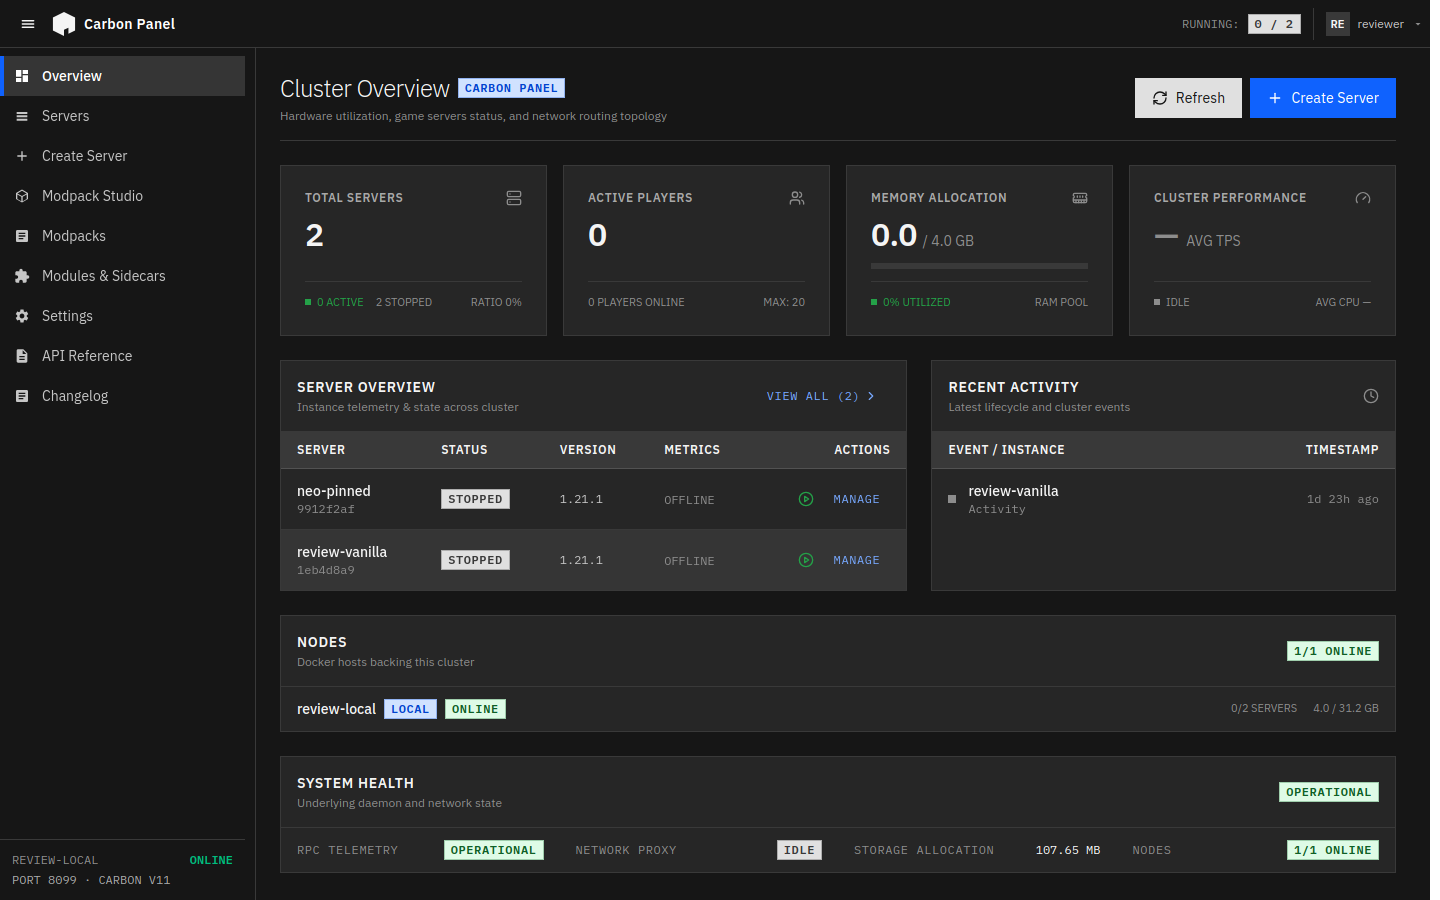
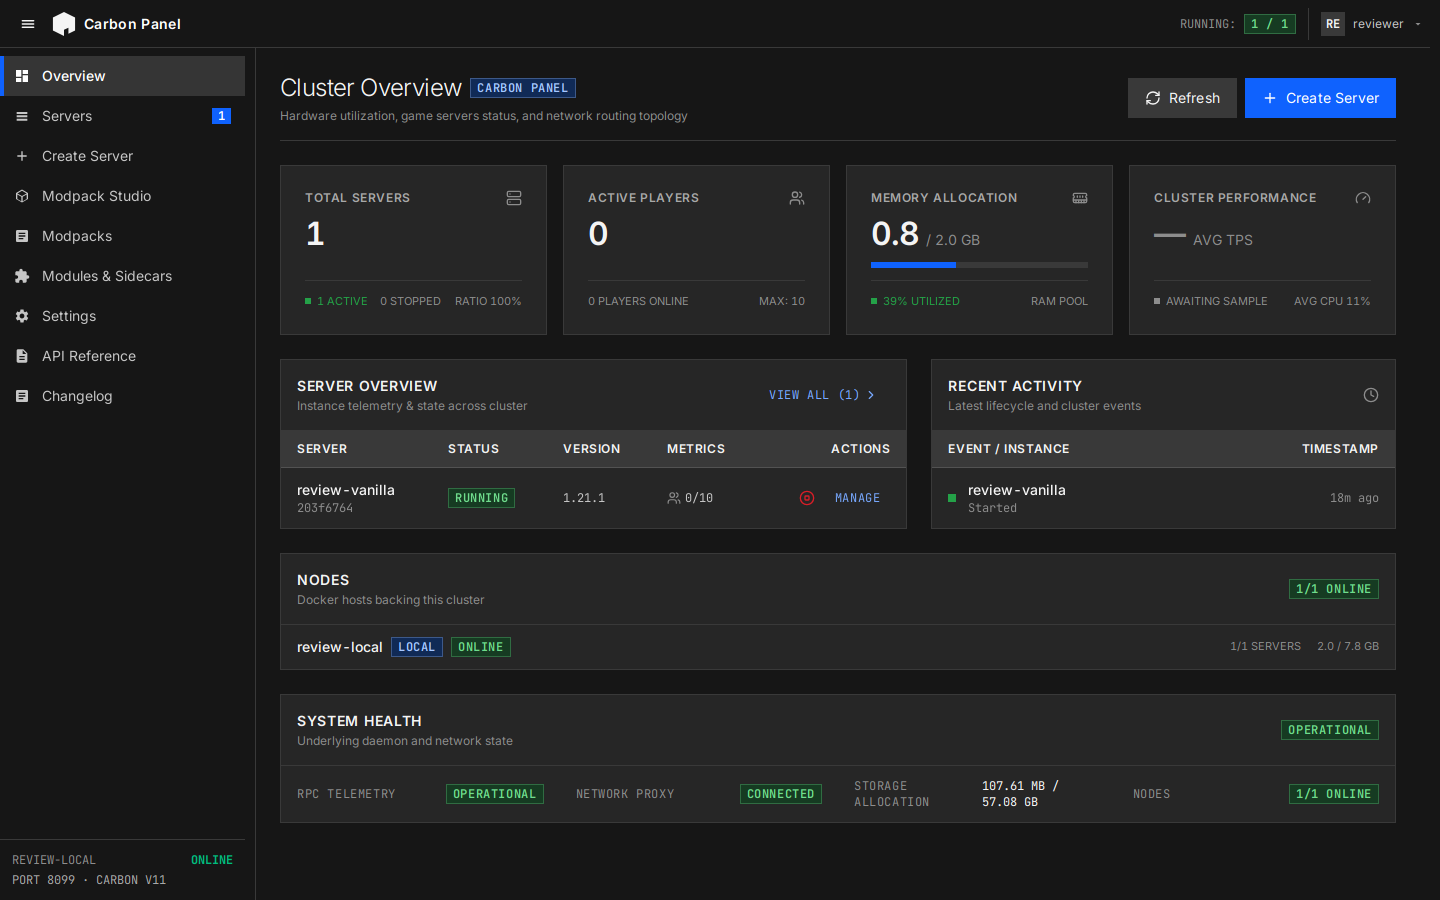
Turn the landing showcase into a product tour
Frame the four console captures as browser windows with route pills, benefit-led captions, and hover lift. Default :root to the dark palette so fresh browsers render dark controls (the white selects/cards), with a regression test. Seed the review stack with a running server and modded pack; capture uniform 1440x900 viewports. Regenerate the committed PNGs from the live stack.

diff --git a/landing/index.html b/landing/index.html
@@ -493,29 +493,53 @@
     <section class="showcase section" id="showcase" aria-labelledby="showcase-title">
       <div class="container">
         <div class="section-head reveal">
-          <p class="eyebrow">Interface preview</p>
+          <p class="eyebrow">Product tour</p>
           <h2 id="showcase-title">The panel, up close.</h2>
           <p>
-            Static captures from a disposable seeded stack. They regenerate
-            with the showcase journey whenever the console changes.
+            Real captures from a disposable demo stack, regenerated
+            automatically whenever the console changes.
           </p>
         </div>
         <div class="showcase-grid">
           <figure class="showcase-card reveal">
-            <img src="./assets/showcase/showcase-dashboard.png" alt="Cluster overview dashboard with server tiles, node inventory, and system health" loading="lazy" />
-            <figcaption><strong>Dashboard</strong><span>Cluster overview, nodes, and health</span></figcaption>
+            <div class="browser">
+              <div class="browser-bar" aria-hidden="true">
+                <span class="browser-dots"><i></i><i></i><i></i></span>
+                <span class="browser-url">panel/overview</span>
+              </div>
+              <img src="./assets/showcase/showcase-dashboard.png" alt="Cluster overview with KPI tiles, server list, and system health" loading="lazy" />
+            </div>
+            <figcaption><strong>Know your cluster at a glance</strong><span>Servers, players, memory, and TPS in one strip</span></figcaption>
           </figure>
           <figure class="showcase-card reveal">
-            <img src="./assets/showcase/showcase-server-detail.png" alt="Server detail view with tabs for overview, activity, and console" loading="lazy" />
-            <figcaption><strong>Server detail</strong><span>Telemetry, tabs, and lifecycle journal</span></figcaption>
+            <div class="browser">
+              <div class="browser-bar" aria-hidden="true">
+                <span class="browser-dots"><i></i><i></i><i></i></span>
+                <span class="browser-url">panel/servers/review-vanilla</span>
+              </div>
+              <img src="./assets/showcase/showcase-server-detail.png" alt="Server detail with live status heartbeat, network ingress, telemetry, and tabs" loading="lazy" />
+            </div>
+            <figcaption><strong>Catch problems before players do</strong><span>Live heartbeat, ingress, and health per server</span></figcaption>
           </figure>
           <figure class="showcase-card reveal">
-            <img src="./assets/showcase/showcase-studio.png" alt="Modpack Studio workspace for building and editing modpacks" loading="lazy" />
-            <figcaption><strong>Modpack Studio</strong><span>Visual workspace for custom packs</span></figcaption>
+            <div class="browser">
+              <div class="browser-bar" aria-hidden="true">
+                <span class="browser-dots"><i></i><i></i><i></i></span>
+                <span class="browser-url">panel/studio/showcase-pack</span>
+              </div>
+              <img src="./assets/showcase/showcase-studio.png" alt="Modpack Studio workspace with mod list, versions, and update status" loading="lazy" />
+            </div>
+            <figcaption><strong>Ship a pack without touching a manifest</strong><span>Mods, versions, and sides in one workspace</span></figcaption>
           </figure>
           <figure class="showcase-card reveal">
-            <img src="./assets/showcase/showcase-modpacks.png" alt="Modpacks library for browsing, importing, and managing packs" loading="lazy" />
-            <figcaption><strong>Modpacks</strong><span>Browse, import, and manage</span></figcaption>
+            <div class="browser">
+              <div class="browser-bar" aria-hidden="true">
+                <span class="browser-dots"><i></i><i></i><i></i></span>
+                <span class="browser-url">panel/modpacks</span>
+              </div>
+              <img src="./assets/showcase/showcase-modpacks.png" alt="Modpacks library with search filters, loader tags, and one-click server install" loading="lazy" />
+            </div>
+            <figcaption><strong>From discovery to running server in minutes</strong><span>Browse Modrinth and install straight into a server</span></figcaption>
           </figure>
         </div>
         <p class="showcase-note">Screenshots missing? Regenerate: boot <code>scripts/review/devstack.sh up</code>, run the showcase plan with <code>scripts/review/journey.mjs</code>, then copy <code>showcase-*.png</code> into <code>landing/assets/showcase/</code>.</p>

diff --git a/web/carbon-panel/src/lib/components/carbon/CarbonTile.svelte b/web/carbon-panel/src/lib/components/carbon/CarbonTile.svelte
@@ -14,6 +14,7 @@ file, You can obtain one at https://mozilla.org/MPL/2.0/.
 		class?: string;
 		onclick?: () => void;
 		children?: Snippet;
+		[key: string]: unknown;
 	}
 
 	let {
@@ -21,7 +22,8 @@ file, You can obtain one at https://mozilla.org/MPL/2.0/.
 		href = undefined,
 		class: className = '',
 		onclick,
-		children
+		children,
+		...restProps
 	}: Props = $props();
 
 	const baseClasses =
@@ -34,7 +36,7 @@ file, You can obtain one at https://mozilla.org/MPL/2.0/.
 
 {#if href}
 	<!-- eslint-disable-next-line svelte/no-navigation-without-resolve -- href is caller-provided; callers pass resolve()d paths -->
-	<a {href} class="{baseClasses} {hoverClasses} block {className}">
+	<a {href} {...restProps} class="{baseClasses} {hoverClasses} block {className}">
 		{@render children?.()}
 	</a>
 	<!-- eslint-enable svelte/no-navigation-without-resolve -->
@@ -44,12 +46,13 @@ file, You can obtain one at https://mozilla.org/MPL/2.0/.
 		tabindex="0"
 		{onclick}
 		onkeydown={(e) => (e.key === 'Enter' || e.key === ' ') && onclick?.()}
+		{...restProps}
 		class="{baseClasses} {hoverClasses} {className}"
 	>
 		{@render children?.()}
 	</div>
 {:else}
-	<div class="{baseClasses} {className}">
+	<div {...restProps} class="{baseClasses} {className}">
 		{@render children?.()}
 	</div>
 {/if}

diff --git a/landing/assets/styles.css b/landing/assets/styles.css
@@ -727,6 +727,46 @@ body > footer {
   border-radius: var(--radius-lg);
   background: var(--layer-01);
   box-shadow: 0 20px 36px -28px rgba(0, 0, 0, 0.8);
+  transition: transform var(--dur-med) var(--ease), border-color var(--dur) var(--ease), box-shadow var(--dur-med) var(--ease);
+}
+.showcase-card:hover {
+  transform: translateY(-4px);
+  border-color: var(--border-strong);
+  box-shadow: 0 28px 48px -24px rgba(0, 0, 0, 0.85), 0 -24px 48px -32px rgba(226, 226, 224, 0.16);
+}
+.browser-bar {
+  display: flex;
+  align-items: center;
+  gap: 12px;
+  padding: 10px 14px;
+  background: var(--layer-02);
+  border-bottom: 1px solid var(--border);
+}
+.browser-dots {
+  display: inline-flex;
+  gap: 6px;
+  flex: none;
+}
+.browser-dots i {
+  width: 10px;
+  height: 10px;
+  border-radius: 50%;
+  background: var(--layer-03);
+  border: 1px solid var(--border-strong);
+}
+.browser-url {
+  flex: 1;
+  min-width: 0;
+  text-align: center;
+  font: 12px/1.4 var(--mono);
+  color: var(--text-tertiary);
+  background: var(--term-bg);
+  border: 1px solid var(--border);
+  border-radius: var(--radius-pill);
+  padding: 5px 12px;
+  white-space: nowrap;
+  overflow: hidden;
+  text-overflow: ellipsis;
 }
 .showcase-card img {
   width: 100%;

diff --git a/web/carbon-panel/src/app.html b/web/carbon-panel/src/app.html
@@ -19,12 +19,14 @@ one at https://mozilla.org/MPL/2.0/.
 		<link rel="icon" type="image/svg+xml" href="%sveltekit.assets%/g1_22.svg" />
 		<link rel="apple-touch-icon" href="%sveltekit.assets%/g1_256x256.png" />
 		<!--
-			IBM Plex is self-hosted via @fontsource (see the imports at the top of
-			app.css). It used to be pulled from the Google Fonts CDN here, but the
-			server sets `style-src 'self' 'unsafe-inline'`, so that request was
-			blocked by CSP and the declared UI font silently never loaded — every
-			screen rendered in the fallback face. Self-hosting also removes an
-			external runtime dependency for an offline-capable, self-hosted panel.
+			Inter and JetBrains Mono are self-hosted as variable woff2 under
+			static/fonts (see the @font-face block at the top of app.css and
+			OFL-ATTRIBUTION.txt). Fonts used to be pulled from the Google Fonts
+			CDN here, but the server sets `style-src 'self' 'unsafe-inline'`, so
+			that request was blocked by CSP and the declared UI font silently
+			never loaded — every screen rendered in the fallback face.
+			Self-hosting also removes an external runtime dependency for an
+			offline-capable, self-hosted panel.
 		-->
 		%sveltekit.head%
 	</head>

diff --git a/web/carbon-panel/src/routes/modpacks/+page.svelte b/web/carbon-panel/src/routes/modpacks/+page.svelte
@@ -629,10 +629,14 @@ one at https://mozilla.org/MPL/2.0/.
 	{/if}
 
 	<!-- Modpack Packages Grid with CarbonTiles -->
-	<div class="motion-stagger grid gap-4 md:grid-cols-2 lg:grid-cols-3">
-		{#each displayModpacks as modpack (modpack.id)}
+	<div
+		class="motion-stagger grid gap-4 md:grid-cols-2 lg:grid-cols-3"
+		data-testid="showcase-modpack-grid"
+	>
+		{#each displayModpacks as modpack, i (modpack.id)}
 			<CarbonTile
 				class="group flex flex-col justify-between rounded-none border-[#393939] p-5 transition-colors hover:border-[#525252]"
+				data-testid={i === 0 ? 'showcase-modpack-card' : undefined}
 			>
 				<div class="space-y-3">
 					<!-- Tile Header -->

diff --git a/web/carbon-panel/src/routes/servers/[id]/+page.svelte b/web/carbon-panel/src/routes/servers/[id]/+page.svelte
@@ -578,9 +578,13 @@ one at https://mozilla.org/MPL/2.0/.
 		</CarbonPageHeader>
 
 		<!-- Carbon Metric Tiles (ZERO rounded corners) -->
-		<div class="motion-stagger grid grid-cols-1 gap-4 sm:grid-cols-2 xl:grid-cols-4">
+		<div
+			class="motion-stagger grid grid-cols-1 gap-4 sm:grid-cols-2 xl:grid-cols-4"
+			data-testid="showcase-runtime-tiles"
+		>
 			<!-- Tile 1: Status & Heartbeat -->
 			<div
+				data-testid="showcase-runtime-tile"
 				class="flex flex-col justify-between rounded-none border border-[#393939] bg-[#262626] p-4"
 			>
 				<div class="flex items-center justify-between border-b border-[#393939] pb-3">

diff --git a/web/carbon-panel/src/lib/design-system/tokens.test.ts b/web/carbon-panel/src/lib/design-system/tokens.test.ts
@@ -80,3 +80,15 @@ for (const selector of ["[data-carbon-theme='light']", "[data-carbon-theme='dark
 		assert.ok(contrast('#ffffff', values['--destructive']) >= 4.5);
 	});
 }
+
+test(':root defaults to the dark palette so fresh browsers render dark controls', () => {
+	const root = theme(':root');
+	const dark = theme("[data-carbon-theme='dark']");
+	for (const token of ['--background', '--card', '--foreground', '--input', '--border']) {
+		assert.equal(
+			root[token],
+			dark[token],
+			`:root ${token} must match the dark theme (unstyled selects/cards flash white otherwise)`
+		);
+	}
+});

diff --git a/web/carbon-panel/src/routes/+page.svelte b/web/carbon-panel/src/routes/+page.svelte
@@ -418,7 +418,10 @@ one at https://mozilla.org/MPL/2.0/.
 		</div>
 
 		<!-- Carbon KPI Tiles -->
-		<div class="motion-stagger grid gap-4 md:grid-cols-2 lg:grid-cols-4">
+		<div
+			class="motion-stagger grid gap-4 md:grid-cols-2 lg:grid-cols-4"
+			data-testid="showcase-kpi-tiles"
+		>
 			<!-- Tile 1: Total Servers -->
 			<div
 				class="flex flex-col justify-between rounded-none border border-[#393939] bg-[#262626] p-6 transition-colors select-none hover:border-[#525252]"

diff --git a/web/carbon-panel/src/routes/modpacks/studio/[id]/+page.svelte b/web/carbon-panel/src/routes/modpacks/studio/[id]/+page.svelte
@@ -1193,7 +1193,7 @@ file, You can obtain one at https://mozilla.org/MPL/2.0/.
 								/>
 							</div>
 						{:else}
-							<div class="overflow-x-auto">
+							<div class="overflow-x-auto" data-testid="showcase-mods-table">
 								<table class="w-full border-collapse text-left text-xs">
 									<thead
 										class="border-b border-[#525252] bg-[#393939] font-semibold tracking-wider text-[#f4f4f4] uppercase"

diff --git a/web/carbon-panel/src/lib/design-system/tokens.css b/web/carbon-panel/src/lib/design-system/tokens.css
@@ -3,7 +3,6 @@
  * See docs/design-system/README.md before changing these contracts.
  */
 
-:root,
 [data-carbon-theme='light'] {
 	color-scheme: light;
 	--background: #ffffff;
@@ -78,6 +77,7 @@
 	--tag-cool-gray-text: #334155;
 }
 
+:root,
 .dark,
 [data-carbon-theme='dark'] {
 	color-scheme: dark;

diff --git a/docs/design-system/README.md b/docs/design-system/README.md
@@ -48,12 +48,15 @@ and warning also have text roles. Status tags have dedicated foreground and
 background pairs. Do not convey meaning by color alone. Charts must use labels
 or patterns as well as color and provide a text alternative.
 
-The source provides light and dark palettes. Panel supports both. Cloud
-currently starts with the dark class and does not expose a theme picker; its
-light palette is a foundation for future work, not a claim that Cloud's pages
-have been qualified in light mode. A preview may use data-carbon-theme on a
-container; application themes use the root dark class. Test contrast in the
-actual adjacent surfaces, including hover, selection and focus states.
+The source provides light and dark palettes. Panel supports both but defaults
+to dark: `:root` carries the dark palette, so a fresh browser with no stored
+preference renders dark controls. Light applies only under
+`[data-carbon-theme='light']`. Cloud currently starts with the dark class and
+does not expose a theme picker; its light palette is a foundation for future
+work, not a claim that Cloud's pages have been qualified in light mode.
+A preview may use data-carbon-theme on a container; application themes use the
+root dark class. Test contrast in the actual adjacent surfaces, including
+hover, selection and focus states.
 
 ### Type, spacing and geometry
 

diff --git a/knowledge/workflows/frontend-change.md b/knowledge/workflows/frontend-change.md
@@ -66,5 +66,9 @@ tokens for new UI. Cloud carries a content-pinned snapshot; changes need review
 and verification in both products. The standalone design-system homepage lives
 in docs/design-system and is not a Panel application route. Literal colors in older views remain migration debt, so a token
 change alone does not establish application-wide propagation.
+Dark is the default theme: `:root` carries the dark palette and light applies
+only under `[data-carbon-theme='light']`. Controls that render white on a
+fresh profile mean a token regressed to the light default; see
+`tokens.test.ts`.
 
 See [ADR 0009](../../docs/adr/0009-shared-design-system.md).
